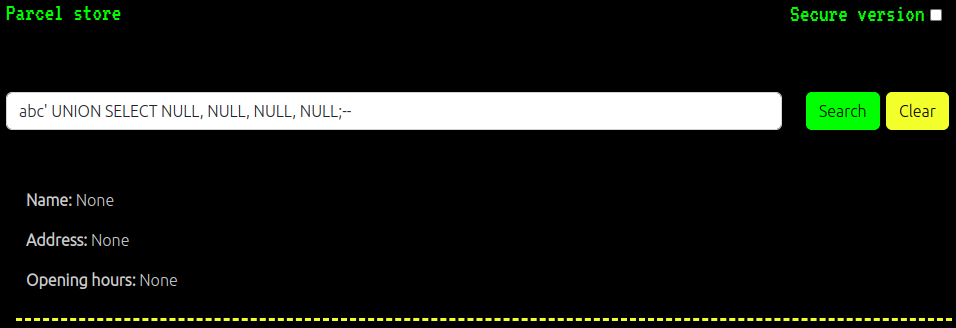
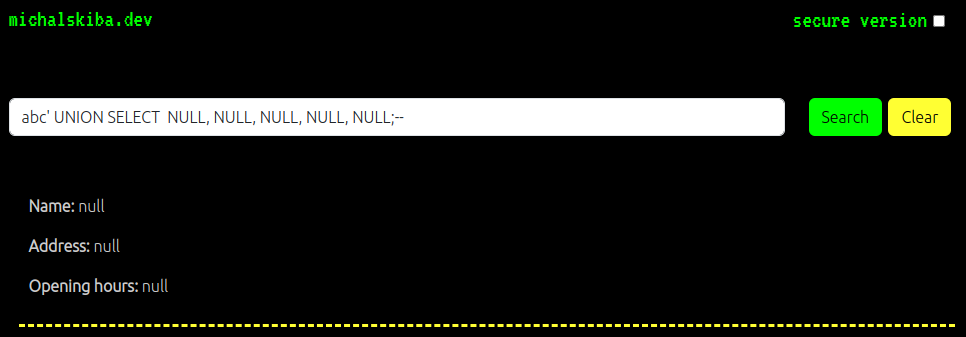
Updated blog post

diff --git a/modules/frontend/src/themes/michalskiba_dev/layouts/partials/demos/sql_injection/scripts.html b/modules/frontend/src/themes/michalskiba_dev/layouts/partials/demos/sql_injection/scripts.html
@@ -39,6 +39,11 @@
         parentContainer.innerHTML = 'Loading ...';
     }
 
+    async function unsetLoading() {
+        const parentContainer = document.getElementById("parent-container");
+        parentContainer.innerHTML = '';
+    }
+
     // Add listener to store info in local storage about search text
     document.getElementById("address-search-phrase").addEventListener('change', (event) => {
         setAddressSearchPhrase(event.target.value);
@@ -69,6 +74,7 @@
         ).catch(
             error => {
                 console.debug(error);
+                unsetLoading();
             }
         )
     });

diff --git a/modules/frontend/src/content/blog/post/sql-injection-example-of-why-we-should-not-trust-user-input.md b/modules/frontend/src/content/blog/post/sql-injection-example-of-why-we-should-not-trust-user-input.md
@@ -45,7 +45,7 @@ SQL query (even with ORM) and sometimes it may be tempting to do so.
 ## Introduction to demo scenario
 
 Let's leave theory behind and get our hands on real live example. Demonstration is available under
-this address [sql-injection.michalskiba.dev](https://sql-injection.michalskiba.dev/). It is a
+this [address](/demos/sql-injection/). It is a
 simple mockup site of fake carrier that provides user with view to search for parcel stores by 
 address. The site itself is primitive, but what is most important it provides a way for user to 
 input search query which is later used in SQL query to filter parcel stores. In the navbar you 
@@ -57,53 +57,53 @@ protection) or whether you want to use insecure version (without SQL Injection p
 Please open demo site without SQL Injection protection. Let's try to recreate the reasoning 
 and actions attacker performs when he wants to exploit potential SQL Injection vulnerability. 
 Let's check that the search mechanism works by inputting `Warsaw`. It should display two parcel 
-stores as expected. With knowledge we have from previous sections let's see whether form is 
+stores as expected. With the knowledge we have from previous sections let's see whether form is 
 vulnerable to SQL Injection by using `UNION` keyword. The idea behind it is that it should 
 "union" two query results into one under two conditions: number of returned values must match 
 and values in the same column of different tables must have the same type, unless it is `NULL` 
 value. We will use this `NULL` value exception to check how many values are returned in the 
 query. In the search output we can see three values per parcel store, so it is logical to 
 conclude that query returns three values. Let's try `abc' UNION SELECT NULL, NULL, NULL;--` 
-then. It does not work. Maybe some field is not displayed (many times also primary key is 
-returned from query), so let's try it with one more `NULL` by inputting this `abc' UNION SELECT 
-NULL, NULL, NULL, NULL;--`. Great (not great for fake carrier), that is working. We are now 
-sure that site is really vulnerable.
+then. It does not work. Maybe some fields are not displayed (many times also primary key is 
+returned from query etc.). Attacker have to try many combinations, but we can skip that and we can
+already try to input `NULL` five times: `abc' UNION SELECT NULL, NULL, NULL, NULL, NULL;--`. Great
+(not great for fake carrier), that is working. We are now  sure that site is really vulnerable.
 
 ![sql_injection_1.png](/post/sql_injection/1.png)
 
 Now it may be useful to know on what database we are operating. Most of the modern database 
 provides some kind of command to check it. Let's skip part of guessing and with the knowledge 
-that this app is using postgres let's search for `abc' UNION SELECT NULL, version(), NULL, NULL;
---`.
+that this app is using SQLite let's search for `abc' UNION SELECT NULL, NULL, sqlite_version(),
+NULL, NULL; --`.
 
 ![sql_injection_2.png](/post/sql_injection/2.png)
  
-That is very useful information. In PostgreSQL table names are stored in the table called
-`information_schema.tables`. We can search for all tables with this input
-`abc' UNION SELECT NULL, table_name, NULL, NULL FROM information_schema.tables;--`.
+That is very useful information. In SQLite table names are stored in the table called
+`<DB_NAME>.sqlite_master`. Default database name is `main`. We can search for all tables with this input
+`abc' UNION SELECT NULL, NULL, name, NULL, NULL FROM main.sqlite_master WHERE type='table'; --`.
 
 ![sql_injection_3.png](/post/sql_injection/3.png)
 
-Once we find interesting table we can also display all columns on that table by selecting
-values from `information_schema.columns` table. Let's check columns in parcel store table with
-following input `abc' UNION SELECT NULL, column_name, NULL, NULL FROM information_schema.
-columns WHERE table_name = 'sql_injection_parcelstore';--`.
+Once we find interesting table we can also get SQL which was used to create the table from
+the same `<DB_NAME>.sqlite_master` table. Let's check it with following input
+`abc' UNION SELECT NULL, NULL, sql, NULL, NULL FROM main.sqlite_master WHERE name='parcelstore'; --`.
 
 ![sql_injection_4.png](/post/sql_injection/4.png)
 
 That is interesting, we found `access_code` column that is not shown in the search result.
-Probably that is code that if provided will open locked doors of parcel store! (let's assume 
+Probably that is the code that if provided will open locked doors of parcel store! (let's assume 
 that such access code really exists and is stored on the same table for the sake of this 
-example :D). Now all we need to do to get all access codes is to input this `abc' UNION SELECT 
-NULL, name, address, access_code FROM sql_injection_parcelstore;--` and we now know all access 
+example :D). Now all we need to do to get all access codes is to input this `abc' UNION SELECT
+NULL, name, address, access_code, NULL FROM parcelstore;--` and we now know all access 
 codes with the exact locations of parcel stores.
 
 ![sql_injection_5.png](/post/sql_injection/5.png)
 
 In real life scenario using SQL Injection you could also add data to the tables (for example 
 users with admin privileges), drop tables or drop whole database, but because I expose this 
-vulnerability online I validate the input, so only read queries are allowed. There is (hopefully)
-no way of dropping the database. I also use different database for this demo than for other 
+vulnerability online I ensured that only `UNION SELECT` can be injected
+(protection in `pewwee` library to run only one raw query at once), so only read queries are allowed.
+There is (hopefully) no way of dropping the database. I also use different database for this demo than for other 
 demos, so there is also no risk of breaking my other demo sites.
 
 ## Example of correctly implemented search mechanism
@@ -111,13 +111,11 @@ demos, so there is also no risk of breaking my other demo sites.
 You can switch the site to the secure version and check all previous inputs that helped us to get
 access codes. It won't work, because now SQL queries are parametrized. You can check out the
 code that is responsible for querying in secure and insecure way in my
-[open repository](https://github.com/dev-michal-skiba/michalskiba-dev/blob/master/michalskiba_dev/sql_injection/utils.py).
-For secure querying I use Django ORM that parametrize the query under the hood. Using
-framework recommended way of communicating with database is always the safest option. If we
-are using bare language there are always ORMs available (for example SQLAlchemy 
-fo Python) which should be used. Anyway, as you can see in the code, Django ORM allows 
-executing bare SQL queries. It is not recommended, but you can do this. There is mechanism for 
-parametrizing raw SQL queries in Django (see 
-[docs](https://docs.djangoproject.com/en/5.0/topics/db/sql/#passing-parameters-into-raw)), but you
-are not forced to use it. That is why developers should be aware of SQL Injection. Not knowing this
-can result in introducing major vulnerabilities to the web applications.
+[open repository](https://github.com/dev-michal-skiba/michalskiba-dev/tree/master/modules/sql_injection).
+For database operations I use `peewee` package which provides ORM which parametrize the query under the hood. Using
+framework recommended way of communicating with database is always the safest option. For most of the moderns
+languages there is always some ORM available (for example `peewee` or `SQLAlchemy` for Python) which should be used.
+Anyway, as you can see in the code, ORM also provides a mechanism to execute bare SQL queries. It is not recommended,
+but you can do this. There is mechanism for parametrizing raw SQL queries in `peewee`, but you are not forced to use it.
+That is why developers should be aware of SQL Injection. Not knowing this can result in introducing major
+vulnerabilities to the applications.
